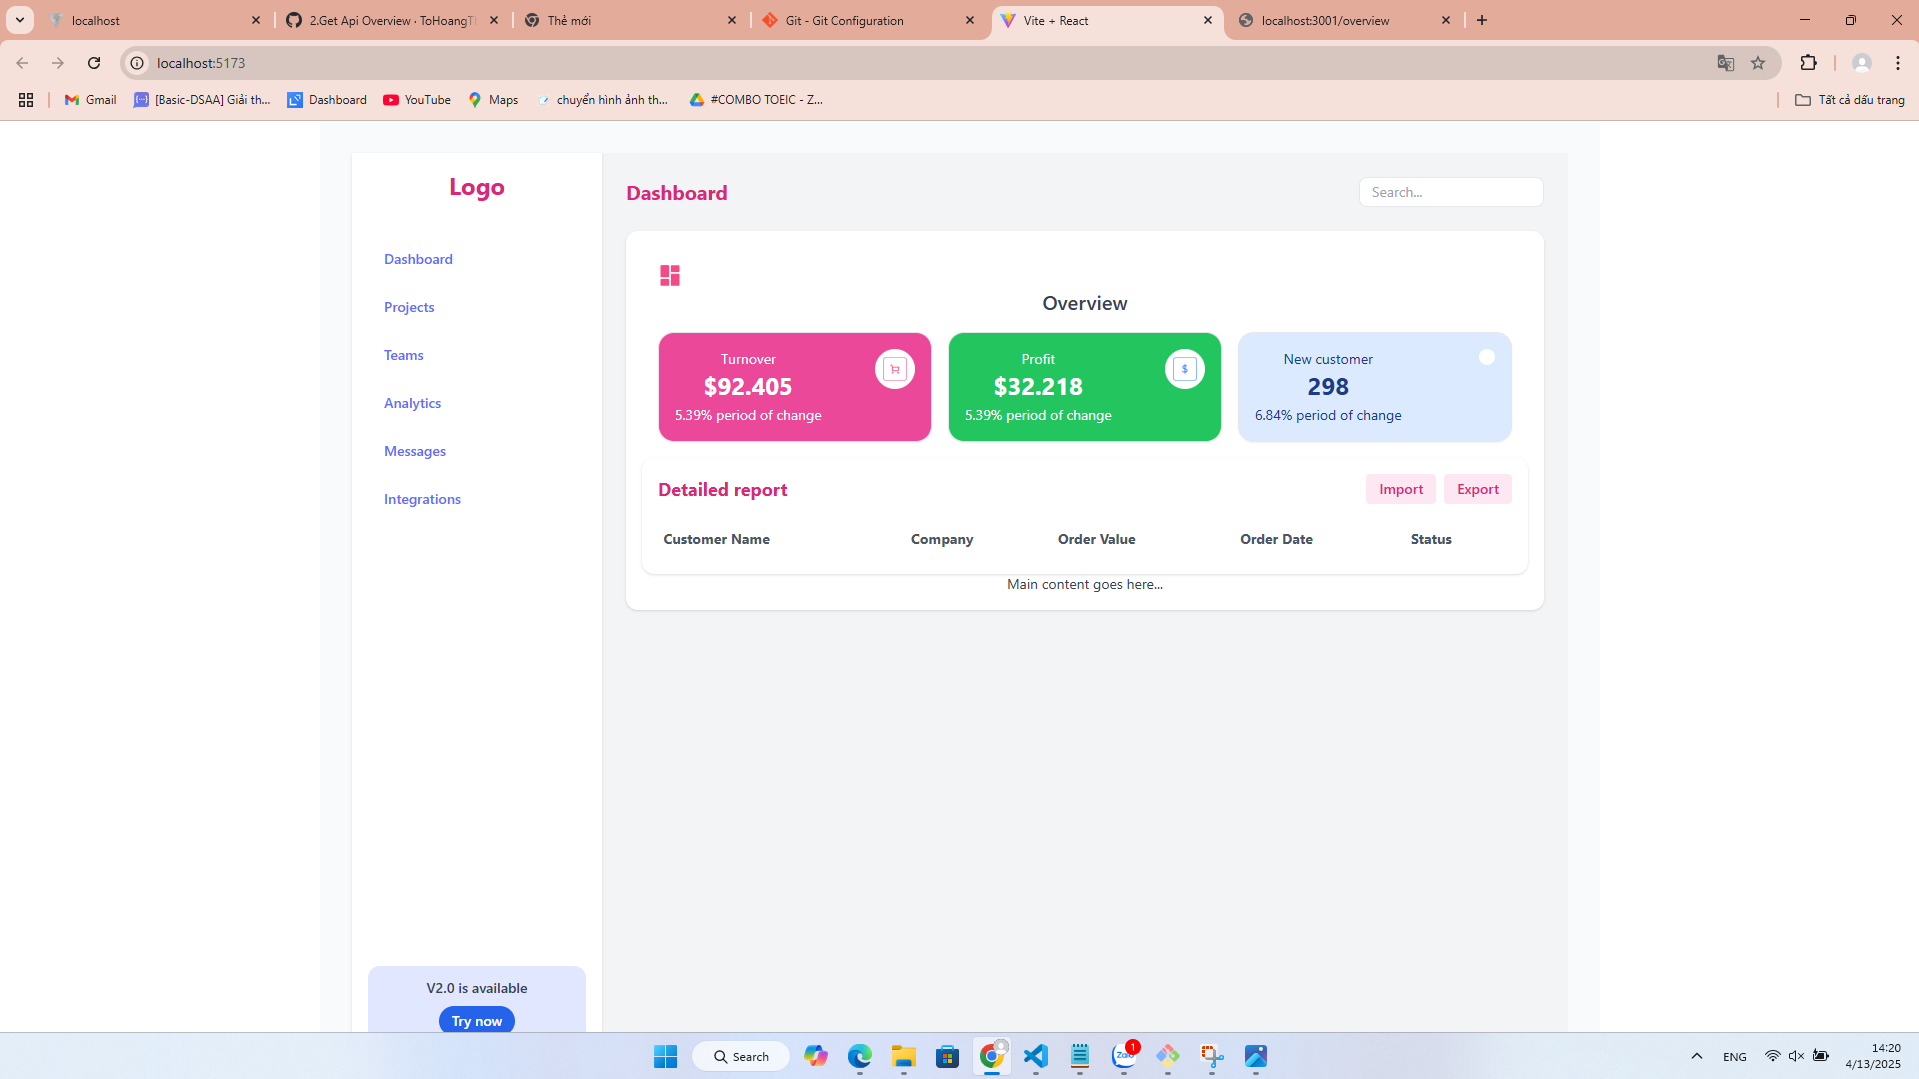
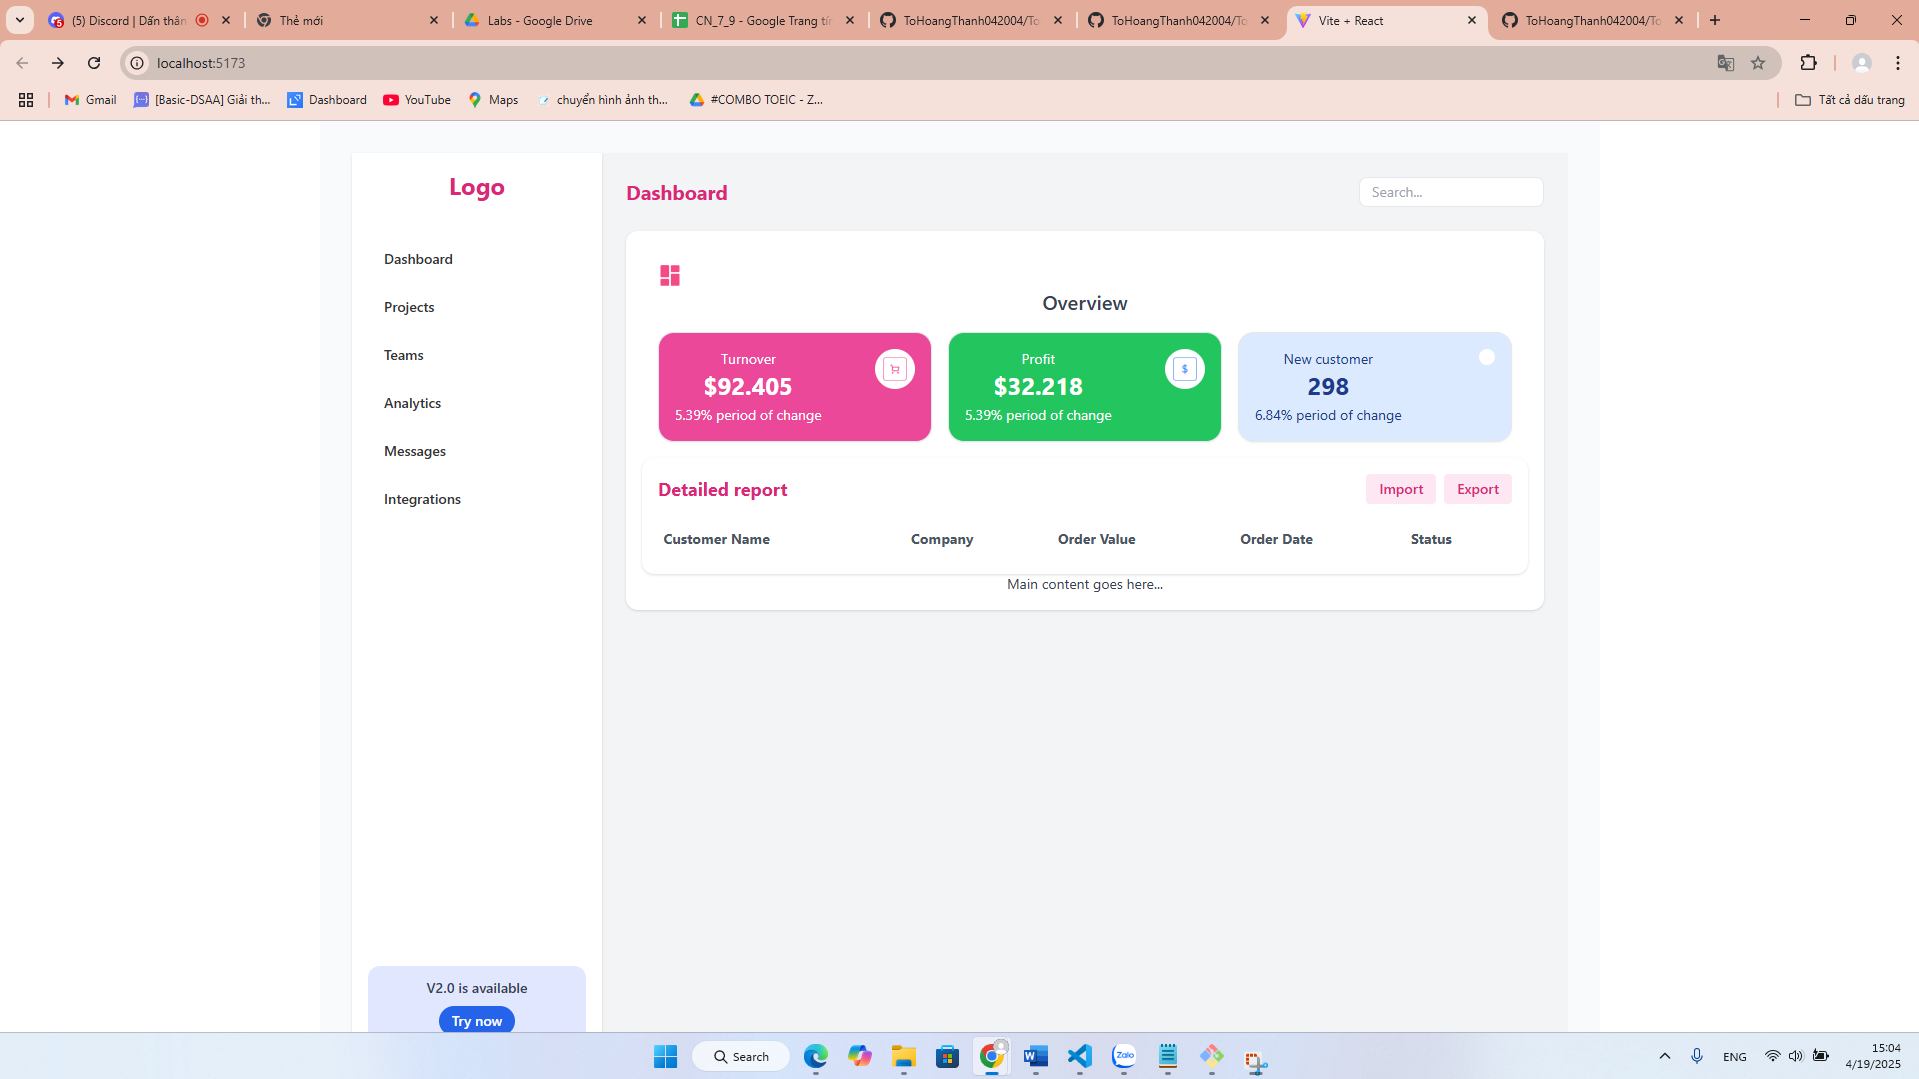
3.DataTable

diff --git a/LabTH/src/component/Dashboard.jsx b/LabTH/src/component/Dashboard.jsx
@@ -105,6 +105,9 @@ export default function Dashboard() {
         {/* Placeholder for Main Content */}
         <div className="bg-white rounded-xl shadow p-4">
         <Overview />
+
+        {/* Report Table */}
+        {/* Report Table */}
         <section className="bg-white rounded-xl shadow p-4 overflow-auto">
           <div className="flex justify-between items-center mb-4">
             <h2 className="text-lg font-bold text-pink-600">Detailed report</h2>
@@ -126,37 +129,16 @@ export default function Dashboard() {
                 <th></th>
               </tr>
             </thead>
-            {/* <tbody>
-              {currentItems.map((row, idx) => (
-                <tr key={idx} className="bg-white rounded-xl shadow">
-                  <td><input type="checkbox" /></td>
-                  <td className="flex items-center gap-2 font-medium">
-                    <img src={images[row.avatar]} alt={row.name} className="w-8 h-8 rounded-full" />
-                    {row.name}
-                  </td>
-
-                  <td>{row.company}</td>
-                  <td>{row.value}</td>
-                  <td>{row.date}</td>
-                  <td>
-                    <span className={`px-2 py-1 rounded-full text-xs font-semibold ${
-                      row.status === "New" ? "text-blue-600 bg-blue-100"
-                        : row.status === "In-progress" ? "text-yellow-600 bg-yellow-100"
-                        : "text-green-600 bg-green-100"
-                    }`}>
-                      {row.status}
-                    </span>
-                  </td>
-                  <td>
-                    
-                  </td>
-                </tr>
-              ))}
-            </tbody> */}
+            <tbody>
+              
+            </tbody>
           </table>
 
+          {/* Pagination */}
           
         </section>
+
+
 
           <p className="text-gray-700">Main content goes here...</p>
         </div>

diff --git a/LabTH/src/App.jsx b/LabTH/src/App.jsx
@@ -2,24 +2,15 @@ import React from 'react';
 import { BrowserRouter as Router, Routes, Route } from 'react-router-dom';
 import './App.css';
 import Dashboard from './component/Dashboard';
-import Projects from './pages/Projects';
-import Teams from './pages/Teams';
-import Analytics from './pages/Analytics';
-import Messages from './pages/Messages';
-import Integrations from './pages/Integrations';
 
 function App() {
   return (
     <Router>
       <Routes>
         <Route path="/" element={<Dashboard />} />
-        <Route path="/projects" element={<Projects />} />
-        <Route path="/teams" element={<Teams />} />
-        <Route path="/analytics" element={<Analytics />} />
-        <Route path="/messages" element={<Messages />} />
-        <Route path="/integrations" element={<Integrations />} />
       </Routes>
     </Router>
   );
 }
+
 export default App;

diff --git a/LabTH/src/App.css b/LabTH/src/App.css
@@ -48,7 +48,7 @@
 /* Reset styles */
 body {
   margin: 0;
-  font-family: 'Arial', sans-serif;
+  font-family: Arial, sans-serif;
   background-color: #f9fafb;
   color: #333;
   height: 100vh;
@@ -58,6 +58,15 @@ body {
   height: 720px; /* Chiều cao cố định */
   margin: 0 auto; /* Căn giữa trang */
   overflow: hidden; /* Ẩn cuộn nếu nội dung vượt quá */
+}
+
+a {
+  text-decoration: none;
+  color: #333;
+}
+
+a:hover {
+  color: #ec4899;
 }
 
 /* Sidebar styles */
